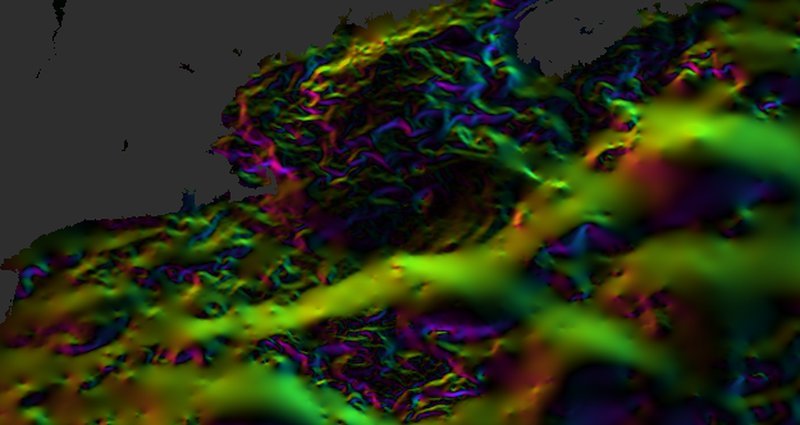
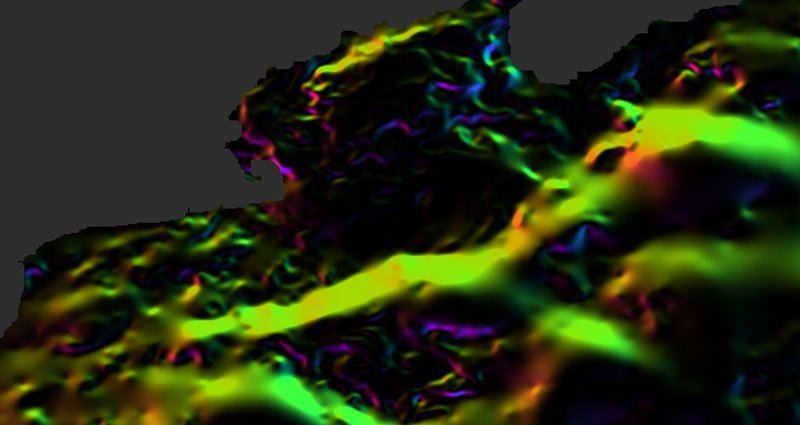
Gulf Stream fronts no longer shimmer as you zoom: gradient smooths along its axes first (sigma), and weak gradients stay dark

diff --git a/web/src/cards.ts b/web/src/cards.ts
@@ -113,12 +113,14 @@ const LAND = "if (isnan(v)) { emitRGB(vec3(0.18)); return; }";  // MUR has no va
 const CELSIUS = `#uicontrol invlerp temperature(range=[25, 32])
 void main() { float v = getDataValue(); ${LAND} emitRGB(colormapJet(clamp(temperature(), 0.0, 1.0))); }`;
 // a gradient's two channels, °C per degree northward and eastward: the direction warmer
-// water lies in as hue, how fast it warms as brightness
-const FRONTS = `#uicontrol float strength slider(min=1, max=100, default=20)
+// water lies in as hue, how fast it warms as brightness (squared: weak gradients, whose
+// direction is mostly noise, stay dark)
+const FRONTS = `#uicontrol float strength slider(min=1, max=100, default=12)
 void main() {
   float north = getDataValue(0), east = getDataValue(1);
   if (isnan(north) || isnan(east)) { emitRGB(vec3(0.18)); return; }
   float m = clamp(length(vec2(north, east)) / strength, 0.0, 1.0);
+  m *= m;
   float hue = atan(north, east) / 6.2832;
   emitRGB(m * (0.5 + 0.5 * cos(6.2832 * (hue + vec3(0.0, 0.33, 0.67)))));
 }`;
@@ -327,7 +329,9 @@ export const CARDS: DemoCard[] = [
     views: {
       sst: { source: MUR, chunk: [1, 256, 256], ops: [{ op: "scale", offset: -273.15 }] },
       // along latitude and longitude, not time: °C per degree (a kelvin is a degree Celsius)
-      fronts: { source: MUR, chunk: [1, 256, 256], ops: [{ op: "gradient", axes: [1, 2] }] },
+      // smoothed over a few km first (sigma, a Gaussian derivative): the analysis's 1 km
+      // speckle would otherwise shimmer as you zoom, every pixel pointing its own way
+      fronts: { source: MUR, chunk: [1, 256, 256], ops: [{ op: "gradient", axes: [1, 2], sigma: 3 }] },
     },
     layers: [
       { name: "temperature", view: "sst", type: "image", shader: COLD },
@@ -336,7 +340,7 @@ export const CARDS: DemoCard[] = [
     panels: [["temperature"], ["fronts"]],
     position: [5738, 12799, 11199], zoom: 2,  // 38° N, 68° W
     orientation: [1, 0, 0, 0],  // north up
-    command: `chunkmirage serve '${MUR}' --op '{"op": "gradient", "axes": [1, 2]}' --chunk 1,256,256 --python-viewer`,
+    command: `chunkmirage serve '${MUR}' --op '{"op": "gradient", "axes": [1, 2], "sigma": 3}' --chunk 1,256,256 --python-viewer`,
   },
   {
     kind: "python", id: "solar", image: "cards/solar.jpg",

diff --git a/src/chunkmirage/ops/filters.py b/src/chunkmirage/ops/filters.py
@@ -114,9 +114,19 @@ class Gradient(Op):
     (float32), per unit of the axes (a level's voxel size): central differences. It returns
     only the interior it can compute, one voxel less on each side of those axes, as a valid
     convolution (or a model) does. Where temperature changes fastest at sea, ocean fronts;
-    on terrain, the slope's components; in a volume, edges and their direction."""
+    on terrain, the slope's components; in a volume, edges and their direction. With
+    ``sigma``, smoothed along the same axes first (a Gaussian derivative), so noise a voxel or
+    two across does not point every voxel its own way."""
 
     name = "gradient"
+    packages = ("scipy",)
+    sigma: float = Field(
+        0.0,
+        ge=0,
+        le=16,
+        description="Smoothing first, in voxels along the axes differentiated (0: none). The halo "
+        "grows to 1 + ceil(3 × sigma).",
+    )
     axes: list[int] | None = Field(
         None,
         description="The axes to differentiate along, counted from the first (1, 2: latitude and "
@@ -132,11 +142,11 @@ class Gradient(Op):
 
     @property
     def halo(self):  # type: ignore[override]
-        return 1
+        return 1 + math.ceil(3 * self.sigma)
 
     def halo_for(self, ndim: int) -> tuple[int, ...]:
         along = self._along(ndim)
-        return tuple(1 if a in along else 0 for a in range(ndim))
+        return tuple(self.halo if a in along else 0 for a in range(ndim))
 
     def output_info(self, info: ArrayInfo) -> ArrayInfo:
         n = len(self._along(info.ndim))
@@ -156,11 +166,16 @@ class Gradient(Op):
         b = block.astype(np.float32)
         along = self._along(b.ndim)
         voxel = self._voxel[-b.ndim:] if self._voxel else (1.0,) * b.ndim
-        inner = [slice(1, -1) if a in along else slice(None) for a in range(b.ndim)]
+        if self.sigma > 0:
+            from scipy.ndimage import gaussian_filter
+
+            b = gaussian_filter(b, [self.sigma if a in along else 0 for a in range(b.ndim)], truncate=3, mode="nearest")
+        h = self.halo
+        inner = [slice(h, -h) if a in along else slice(None) for a in range(b.ndim)]
         out = []
         for a in along:
             hi, lo = list(inner), list(inner)
-            hi[a], lo[a] = slice(2, None), slice(None, -2)
+            hi[a], lo[a] = slice(h + 1, b.shape[a] - h + 1), slice(h - 1, b.shape[a] - h - 1)
             out.append((b[tuple(hi)] - b[tuple(lo)]) / np.float32(2 * voxel[a]))
         return np.stack(out)
 

diff --git a/tests/test_shape_changing_ops.py b/tests/test_shape_changing_ops.py
@@ -116,3 +116,14 @@ def test_the_browsers_way_computes_the_same_channels(zarr2_path):
         in_box = fused.input_box(src.info, out_box, lead, halo)
         block = fused.pad_edge(src.read(in_box.clip(src.info.shape)), in_box, src.info.shape)
         np.testing.assert_array_equal(fused.run(ops, block, in_box, out_box, out, halo), p.chunk(0, idx))
+
+
+def test_a_smoothed_gradient_is_the_gradient_of_the_blur_along_its_axes_only(zarr2_path, volume):
+    from scipy.ndimage import gaussian_filter
+
+    p = Pipeline(open_source(zarr2_path), [Gradient(axes=[1, 2], sigma=1.5)], chunk_shape=(16, 16, 32))
+    whole = p.read(0, Box((0, 0, 0, 0), p.info(0).shape))
+    smooth = gaussian_filter(volume.astype(np.float32), [0, 1.5, 1.5], truncate=3, mode="nearest")  # not along z
+    h = 1 + 5
+    inner = (slice(None), slice(h, -h), slice(h, -h))
+    np.testing.assert_allclose(whole[(slice(None), *inner)], central(smooth, (8, 8, 8), (1, 2))[(slice(None), slice(None), slice(h - 1, -h + 1), slice(h - 1, -h + 1))], rtol=1e-4, atol=1e-4)

diff --git a/docs/demos.md b/docs/demos.md
@@ -22,7 +22,7 @@ napari or a dask script.
 | [Shackleton crater's rim in 3-D](https://yuriyzubov.github.io/chunkmirage/browser/pipeline.html?card=mesh-moon) | a terrain mesh of NASA's 5 m elevation (two triangles per 20 m cell), each fragment made when fetched, beside the elevation as stored | LOLA south-pole elevation, Shackleton rim |
 | [Where to land at the Moon's south pole](https://yuriyzubov.github.io/chunkmirage/browser/map.html?card=moon) | `hillshade` (the sun's direction and height at sliders, computed again for the tiles on screen) and `slope` (ground under a chosen slope coloured by the map) on 5 m elevation, any of 26 sites; drawn by OpenLayers, not Neuroglancer, reading the page's chunks as GeoZarr, fitted to the site so everything on screen is computed | NASA's LOLA south-pole elevation maps (Barker et al.), cloud-optimized GeoTIFFs |
 | [Hurricanes' cold wakes](https://yuriyzubov.github.io/chunkmirage/browser/pipeline.html?card=hurricanes) | `diff` along time: each day's sea temperature minus the day before's; beside it the temperature itself, shifted from kelvin to °C by `scale` | NASA MUR sea-surface temperature, 2002 on, 0.01° |
-| [Gulf Stream fronts](https://yuriyzubov.github.io/chunkmirage/browser/pipeline.html?card=fronts) | `gradient` along latitude and longitude: two channels, coloured by the direction warmer water lies in and brightened by how fast it warms; the op returns only the interior it can compute, as a model does | NASA MUR sea-surface temperature, 15 February 2018 |
+| [Gulf Stream fronts](https://yuriyzubov.github.io/chunkmirage/browser/pipeline.html?card=fronts) | `gradient` along latitude and longitude, smoothed over 3 km first (`sigma`): two channels, coloured by the direction warmer water lies in and brightened by how fast it warms; the op returns only the interior it can compute, as a model does | NASA MUR sea-surface temperature, 15 February 2018 |
 | A solar flare (Python only) | `diff` along time on NASA's SDO images of the sun; the gallery shows its command, since NASA's bucket allows no browser page to read it | SDO machine-learning dataset, AIA 171 Å |
 
 The pipeline demos run chunkmirage's own Python in the page: Pyodide (Python compiled to

diff --git a/docs/reference/ops.md b/docs/reference/ops.md
@@ -27,7 +27,8 @@ new op; `tests/test_docs.py` requires it.
 |             | `gain`      | 4.0     | scales the difference into 0..255 (output uint8, 128 = zero) |
 | `diff`      | `axis`      | 0       | change along one axis: each voxel minus the one `lag` steps before it on `axis` (0: time in a `t, y, x` series); output float32; halo = `lag` on that axis only; the first `lag` steps compare against the first |
 |             | `lag`       | 1       | how many steps back to compare with |
-| `gradient`  | `axes`      | last three | rate of change along each axis listed (counted from the first: `[1, 2]` for latitude and longitude of a `time, lat, lon` series), per unit of the axes (the level's voxel size): central differences, one channel each on a new leading `c` axis; output float32; halo = 1 on those axes, and only the interior is returned (a valid convolution) |
+| `gradient`  | `axes`      | last three | rate of change along each axis listed (counted from the first: `[1, 2]` for latitude and longitude of a `time, lat, lon` series), per unit of the axes (the level's voxel size): central differences, one channel each on a new leading `c` axis; output float32; halo = 1 + `ceil(3 × sigma)` on those axes, and only the interior is returned (a valid convolution) |
+|             | `sigma`     | 0       | smoothing first, in voxels along those axes (a Gaussian derivative), so noise a voxel or two across does not point every voxel its own way; 0 = none |
 | `downsample`| `factor`    | 2, 2, 2 | voxels per output voxel along each of the last axes; the grid changes with it (voxels `factor` times bigger, the shape divided and rounded up, each voxel's position the centre of its block); how a pipeline makes the coarser levels of an op with an input voxel size |
 |             | `mode`      | auto    | `mean` of each block (integers rounded), `mode` (its most common value), or `auto`: mode for labels and masks, mean otherwise |
 | `morphology`| `operation` | open    | `open`, `close`, `erode`, `dilate` on a mask (input > 0); output uint8 |
